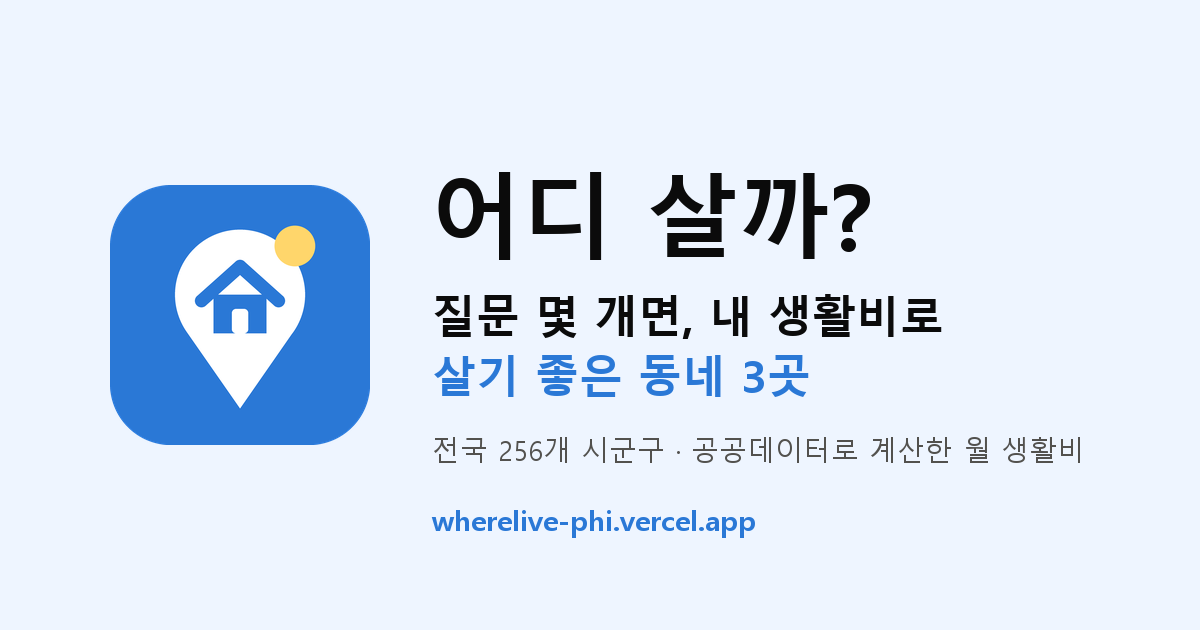
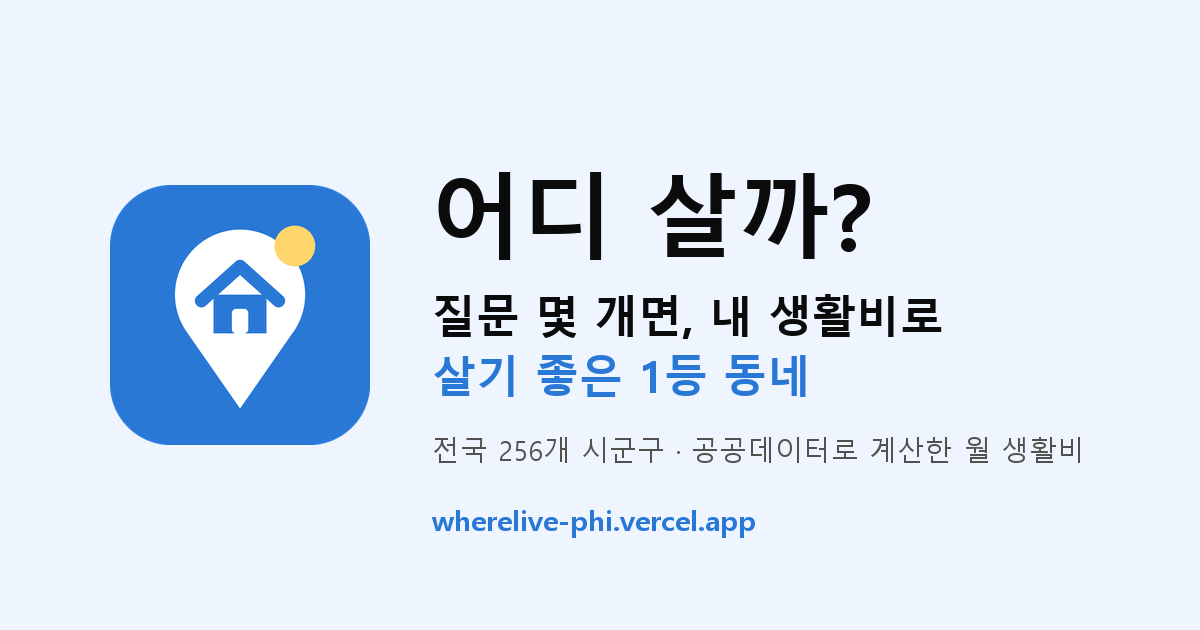
Center the home page and link preview on the 1st-place neighbourhood

Changed region(s): [[0.5242, 0.5429, 0.6783, 0.6333]]

diff --git a/web/src/Home.jsx b/web/src/Home.jsx
@@ -3,7 +3,7 @@ import Scene from './Scene.jsx'
 import { GROUP_COLOR, manwon } from './format.js'
 import { apiFetch } from './api.js'
 
-// 첫 화면: 퀴즈 먼저. 기본 답(1인·월세·빌라)으로 뽑은 예시 카드 3장을 미리 보여 준다.
+// 첫 화면: 퀴즈 먼저. 기본 답(1인·월세·빌라)으로 뽑은 1등 동네 예시 카드를 미리 보여 준다.
 const visible = (q, ans) => Object.entries(q.show_if || {}).every(([k, v]) => ans[k] === v)
 
 export default function Home({ spec, error, onStart, onMap }) {
@@ -20,7 +20,7 @@ export default function Home({ spec, error, onStart, onMap }) {
       <div className="home">
         <section className="hero">
           <p className="hero-kicker">전국 256개 시군구 · 공공데이터로 계산</p>
-          <h2 className="hero-title">질문 몇 개면,<br />내 생활비로 살기 좋은 동네 3곳</h2>
+          <h2 className="hero-title">질문 몇 개면,<br />내 생활비로 살기 좋은 1등 동네</h2>
           <p className="hero-sub">
             샤워는 몇 분? 에어컨은 풀가동? 출근은 버스 아니면 내 차? 재미있는 A/B 질문에 답하면
             주거비·관리비·전기·가스·장보기·외식·기름값까지 합친 월 생활비로 동네를 골라 드려요.
@@ -46,12 +46,13 @@ export default function Home({ spec, error, onStart, onMap }) {
 
         {sample?.results?.length > 0 && (
           <section className="home-sample">
-            <h3>예를 들면, 혼자 사는 빌라 월세파에게는</h3>
-            <div className="podium">
-              {sample.results.slice(0, 3).map((x) => (
+            <h3>예를 들면, 혼자 사는 빌라 월세파의 1등 동네는</h3>
+            <div className="podium home-one">
+              {sample.results.slice(0, 1).map((x) => (
                 <div key={x.region_code} className="pcard mini">
                   <div className="pcard-art"><Scene type={x.card?.archetype} /></div>
                   <div className="pcard-body">
+                    <span className="pcard-rank-inline">🥇 1위</span>
                     <span className="pcard-nick">{x.card?.nickname}</span>
                     <span className="pcard-name">{x.sido} {x.sigungu}</span>
                     <strong>월 약 {manwon(x.total)}</strong>
@@ -59,7 +60,7 @@ export default function Home({ spec, error, onStart, onMap }) {
                 </div>
               ))}
             </div>
-            <p className="muted small">내 답에 따라 순위가 완전히 달라져요.</p>
+            <p className="muted small">내 답에 따라 1등 동네가 완전히 달라져요.</p>
           </section>
         )}
       </div>

diff --git a/web/index.html b/web/index.html
@@ -3,8 +3,8 @@
   <head>
     <meta charset="UTF-8" />
     <meta name="viewport" content="width=device-width, initial-scale=1.0" />
-    <title>어디 살까? — 내 생활비로 살기 좋은 동네 3곳</title>
-    <meta name="description" content="재미있는 A/B 질문 몇 개로 주거비·관리비·전기·가스·장보기·외식·기름값을 합친 월 생활비를 계산해 전국 256개 시군구 중 나에게 맞는 동네 3곳을 골라 드려요." />
+    <title>어디 살까? — 내 생활비로 살기 좋은 1등 동네</title>
+    <meta name="description" content="재미있는 A/B 질문 몇 개로 주거비·관리비·전기·가스·장보기·외식·기름값을 합친 월 생활비를 계산해 전국 256개 시군구 중 나에게 딱 맞는 1등 동네를 골라 드려요." />
     <meta name="theme-color" content="#2a78d6" />
     <link rel="icon" type="image/svg+xml" href="/icon.svg" />
     <link rel="icon" type="image/png" sizes="192x192" href="/icon-192.png" />
@@ -12,8 +12,8 @@
     <!-- 링크 미리보기 (카카오톡·슬랙·X 등). 이미지는 web/scripts/make_icons.py로 만든다 -->
     <meta property="og:type" content="website" />
     <meta property="og:site_name" content="어디 살까?" />
-    <meta property="og:title" content="어디 살까? — 내 생활비로 살기 좋은 동네 3곳" />
-    <meta property="og:description" content="질문 몇 개면 끝! 전국 256개 시군구의 월 생활비를 공공데이터로 계산해 나에게 맞는 동네를 찾아 드려요." />
+    <meta property="og:title" content="어디 살까? — 내 생활비로 살기 좋은 1등 동네" />
+    <meta property="og:description" content="질문 몇 개면 끝! 전국 256개 시군구의 월 생활비를 공공데이터로 계산해 나에게 딱 맞는 1등 동네를 찾아 드려요." />
     <meta property="og:url" content="https://wherelive-phi.vercel.app/" />
     <meta property="og:image" content="https://wherelive-phi.vercel.app/og.png" />
     <meta property="og:image:width" content="1200" />

diff --git a/web/src/styles.css b/web/src/styles.css
@@ -194,7 +194,7 @@ html, body, #root { height: 100%; margin: 0; }
 .options.ab .option-tag { font-size: 12px; font-weight: 700; color: var(--accent); }
 @media (max-width: 520px) { .options.ab { grid-template-columns: 1fr; } .options.ab .option { min-height: 0; } }
 
-/* ── 결과 카드 3장 ── */
+/* ── 결과 카드 ── */
 .podium { display: grid; gap: 12px; grid-template-columns: repeat(auto-fit, minmax(220px, 1fr)); margin: 12px 0; }
 .pcard { display: flex; flex-direction: column; border: 1px solid var(--border); border-radius: 14px; overflow: hidden;
          background: var(--surface-0); text-align: left; font: inherit; padding: 0; }
@@ -219,7 +219,7 @@ html, body, #root { height: 100%; margin: 0; }
 .pcard-facts span { font-size: 11px; padding: 2px 8px; border-radius: 999px; background: #f2f2ef; color: var(--text-secondary); }
 .relaxed { font-size: 13px; color: var(--fallback-ink); background: var(--fallback-bg); padding: 8px 10px; border-radius: 8px; }
 
-/* 결과 모드: 카드 3장이 나란히 보이게 패널을 넓힌다 */
+/* 결과 모드: 카드와 표가 넉넉히 보이게 패널을 넓힌다 */
 .panel.wide { width: min(780px, 62%); }
 .panel.wide .podium { grid-template-columns: repeat(3, minmax(0, 1fr)); }
 @media (max-width: 900px) { .panel.wide .podium { grid-template-columns: 1fr; } }
@@ -282,3 +282,7 @@ html, body, #root { height: 100%; margin: 0; }
 }
 .podium.single .pcard-name { font-size: 22px; }
 .podium.single .pcard-level strong { font-size: 20px; }
+
+/* 첫 화면 예시: 1등 동네 카드 하나 */
+.podium.home-one { grid-template-columns: minmax(0, 420px); }
+.pcard-rank-inline { font-size: 12px; font-weight: 700; color: var(--accent); }

diff --git a/web/src/Results.jsx b/web/src/Results.jsx
@@ -123,7 +123,7 @@ export default function Results({ spec, data, onSelect, selected, onRestart }) {
       </div>
       {asm.where?.length > 0 && <p className="muted small">조건: {asm.where.join(' · ')}</p>}
       {asm.relaxed?.length > 0 && (
-        <p className="relaxed">조건을 모두 만족하는 곳이 3곳보다 적어서 「{asm.relaxed.join('」, 「')}」 조건은 빼고 골랐어요.</p>
+        <p className="relaxed">조건을 모두 만족하는 곳이 너무 적어서 「{asm.relaxed.join('」, 「')}」 조건은 빼고 골랐어요.</p>
       )}
 
       {data.count > 0 && (

diff --git a/web/scripts/make_icons.py b/web/scripts/make_icons.py
@@ -55,7 +55,7 @@ def og():
     f = lambda path, s: ImageFont.truetype(path, s)
     d.text((430, 150), "어디 살까?", font=f(FONT_BOLD, 92), fill=INK)
     d.text((432, 285), "질문 몇 개면, 내 생활비로", font=f(FONT_BOLD, 44), fill=INK)
-    d.text((432, 345), "살기 좋은 동네 3곳", font=f(FONT_BOLD, 44), fill=BLUE)
+    d.text((432, 345), "살기 좋은 1등 동네", font=f(FONT_BOLD, 44), fill=BLUE)
     d.text((432, 430), "전국 256개 시군구 · 공공데이터로 계산한 월 생활비",
            font=f(FONT_REG, 28), fill=MUTED)
     d.text((432, 500), "wherelive-phi.vercel.app", font=f(FONT_BOLD, 28), fill=BLUE)

diff --git a/api/main.py b/api/main.py
@@ -215,7 +215,7 @@ def recommend(answers: dict):
     except ValueError as e:
         raise HTTPException(422, str(e))
     by_code = {r["region_code"]: r for r in rows}
-    for x in results[:3]:   # 카드 3장: 그림 유형·별명·설명·생활비 수준
+    for x in results[:3]:   # 카드 문구(그림 유형·별명·설명·수준): 화면은 1위만 쓰지만 2·3위도 붙여 둔다
         x["card"] = describe.card(x, by_code.get(x["region_code"]))
     return {"answers": normalized, "count": len(results), "results": results, "assumptions": assumptions}
 
